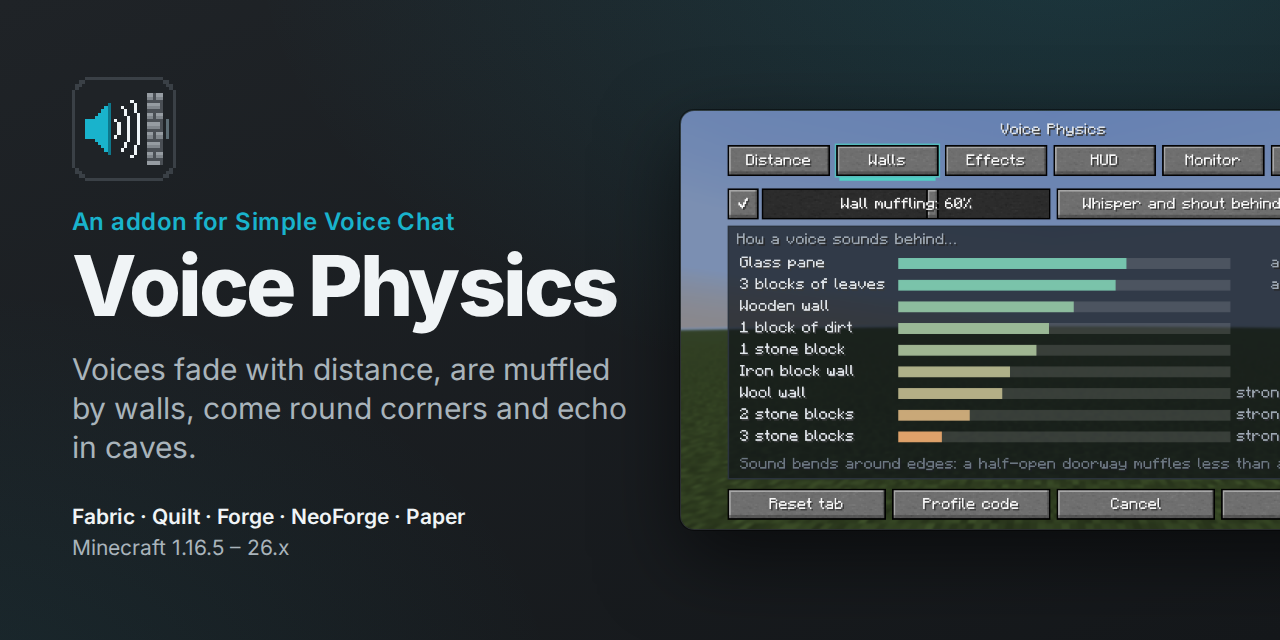
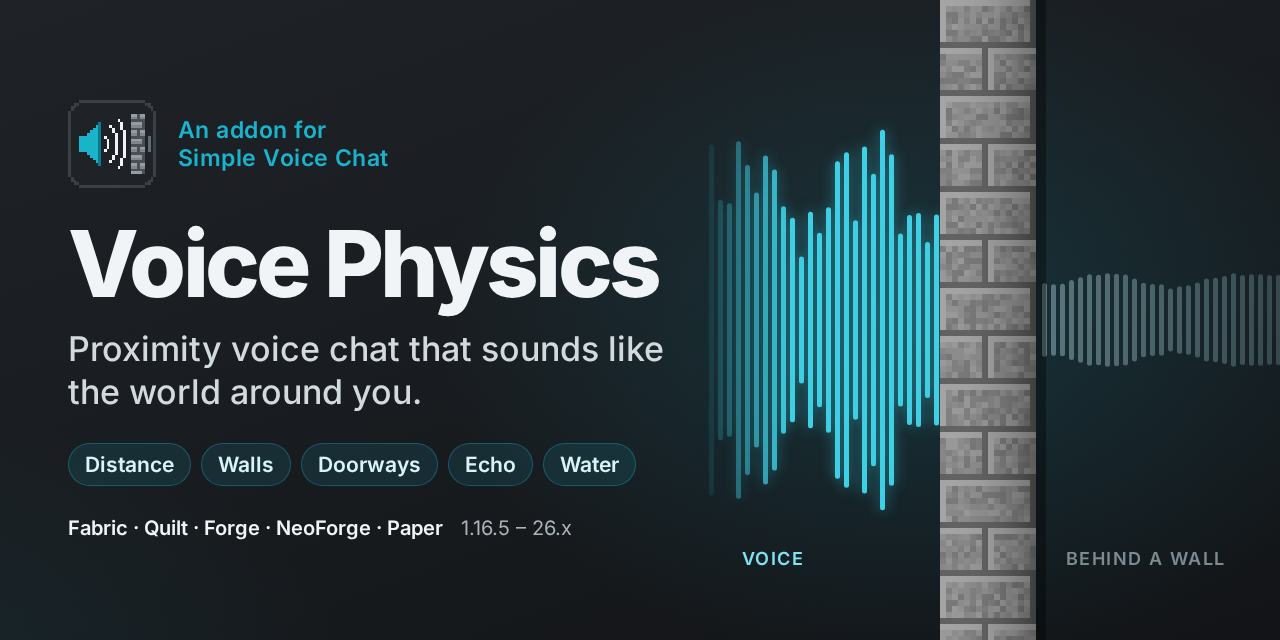
Social preview: a voice going through a wall (#68)

diff --git a/docs/gallery/social.html b/docs/gallery/social.html
@@ -1,0 +1,117 @@
+<!doctype html>
+<html lang="en">
+<head>
+<meta charset="utf-8">
+<title>Voice Physics social preview</title>
+<style>
+  /* The 1280x640 social preview of the GitHub repository: the name on the left, a voice going through a
+     wall on the right, loud and sharp before it, quiet and dull behind it. Rendered by curseforge.js. */
+  @font-face {
+    font-family: "Inter";
+    src: url("fonts/Inter-latin.woff2") format("woff2");
+    font-weight: 100 900;
+  }
+  :root {
+    --bg: #1f2327;
+    --bg-deep: #121417;
+    --cyan: #19b3cc;
+    --text: #f0f4f6;
+    --dim: #a9b4bb;
+  }
+  * { box-sizing: border-box; margin: 0; }
+  html, body { width: 1280px; height: 640px; overflow: hidden; }
+  body {
+    font-family: "Inter", sans-serif;
+    color: var(--text);
+    background:
+      radial-gradient(700px 500px at 72% 50%, rgba(25, 179, 204, 0.17), transparent 70%),
+      radial-gradient(600px 420px at -5% 110%, rgba(25, 179, 204, 0.08), transparent 70%),
+      linear-gradient(160deg, var(--bg) 0%, var(--bg-deep) 100%);
+    -webkit-font-smoothing: antialiased;
+  }
+  canvas { position: absolute; left: 0; top: 0; }
+  .left { position: absolute; left: 68px; top: 0; bottom: 0; width: 600px; display: flex; flex-direction: column; justify-content: center; }
+  .head { display: flex; align-items: center; gap: 22px; }
+  .head img { width: 88px; height: 88px; image-rendering: pixelated; }
+  .for { font-size: 23px; font-weight: 600; color: var(--cyan); letter-spacing: 0.02em; }
+  h1 { font-size: 92px; font-weight: 800; letter-spacing: -0.04em; line-height: 1; margin-top: 30px; }
+  .line { font-size: 34px; font-weight: 500; color: #d3dade; line-height: 1.25; margin-top: 18px; }
+  .chips { display: flex; flex-wrap: wrap; gap: 10px; margin-top: 30px; }
+  .chip {
+    font-size: 21px; font-weight: 600; padding: 8px 16px; border-radius: 999px;
+    background: rgba(25, 179, 204, 0.12); border: 1px solid rgba(25, 179, 204, 0.35); color: #d9f4f8;
+  }
+  .loaders { margin-top: 30px; font-size: 20px; color: var(--dim); }
+  .loaders b { color: var(--text); font-weight: 600; }
+  .tag { position: absolute; font-size: 18px; font-weight: 600; letter-spacing: 0.08em; text-transform: uppercase; }
+</style>
+</head>
+<body>
+<canvas id="c" width="1280" height="640"></canvas>
+<div class="left">
+  <div class="head"><img src="../../icon.png" alt=""><div class="for">An addon for<br>Simple Voice Chat</div></div>
+  <h1>Voice Physics</h1>
+  <div class="line">Proximity voice chat that sounds like the world around you.</div>
+  <div class="chips"><span class="chip">Distance</span><span class="chip">Walls</span><span class="chip">Doorways</span><span class="chip">Echo</span><span class="chip">Water</span></div>
+  <div class="loaders"><b>Fabric · Quilt · Forge · NeoForge · Paper</b> &nbsp; 1.16.5 – 26.x</div>
+</div>
+<div class="tag" style="left: 742px; top: 548px; color: #7fe3f2;">voice</div>
+<div class="tag" style="left: 1066px; top: 548px; color: #7c8a91;">behind a wall</div>
+<script>
+  const ctx = document.getElementById("c").getContext("2d");
+  let seed = 7;
+  const rnd = () => (seed = (seed * 16807) % 2147483647) / 2147483647;
+
+  // The same voice on both sides: speech-like bars, loud and jagged before the wall, then quieter,
+  // smoothed (the muffling) and greyer behind it
+  const step = 9, x0 = 700, x1 = 1280, wallX = 940, wallW = 96, mid = 320;
+  const raw = [];
+  for (let x = x0, i = 0; x < x1; x += step, i++) {
+    const syllable = 0.35 + 0.65 * Math.pow(Math.abs(Math.sin(i * 0.23 + 0.6)), 0.7);
+    raw.push(syllable * (0.45 + 0.55 * rnd()));
+  }
+  const smooth = raw.map((_, i) => {
+    let s = 0, n = 0;
+    for (let k = -3; k <= 3; k++) if (raw[i + k] !== undefined) { s += raw[i + k]; n++; }
+    return s / n;
+  });
+  raw.forEach((v, i) => {
+    const x = x0 + i * step;
+    if (x + 5 > wallX && x < wallX + wallW) return;
+    const before = x < wallX;
+    const fadeIn = Math.min(1, (x - x0) / 90);
+    const h = before ? v * 210 : smooth[i] * 72;
+    ctx.globalAlpha = before ? fadeIn : 0.95 - 0.5 * (x - wallX - wallW) / (x1 - wallX - wallW);
+    ctx.fillStyle = before ? "#3fd0e6" : "#5f7a82";
+    if (before) { ctx.shadowColor = "rgba(63, 208, 230, 0.55)"; ctx.shadowBlur = 14; } else ctx.shadowBlur = 0;
+    ctx.beginPath();
+    ctx.roundRect(x, mid - h, 5, h * 2, 2.5);
+    ctx.fill();
+  });
+  ctx.globalAlpha = 1;
+  ctx.shadowBlur = 0;
+
+  // A stone brick wall from top to bottom, 6 px a texel like a Minecraft block
+  const t = 6, cols = wallW / t, palette = ["#8a8a8a", "#7f7f7f", "#777777", "#929292", "#848484", "#6f6f6f"];
+  for (let r = 0; r < 640 / t + 1; r++) {
+    for (let c = 0; c < cols; c++) {
+      const row = r % 16, col = c % 16;
+      const offset = (Math.floor(r / 8) % 2) * 8;
+      const mortar = row === 7 || row === 15 || (col + offset) % 16 === 15;
+      let color = palette[Math.floor(rnd() * palette.length)];
+      if (mortar) color = "#565656";
+      else if (row === 0 || row === 8 || (col + offset) % 16 === 0) color = "#9e9e9e";
+      ctx.fillStyle = color;
+      ctx.fillRect(wallX + c * t, r * t, t, t);
+    }
+  }
+  const shade = ctx.createLinearGradient(wallX, 0, wallX + wallW, 0);
+  shade.addColorStop(0, "rgba(255,255,255,0.06)");
+  shade.addColorStop(1, "rgba(0,0,0,0.28)");
+  ctx.fillStyle = shade;
+  ctx.fillRect(wallX, 0, wallW, 640);
+  ctx.fillStyle = "rgba(0,0,0,0.35)";
+  ctx.fillRect(wallX + wallW, 0, 10, 640);
+</script>
+</body>
+</html>

diff --git a/docs/gallery/page.html b/docs/gallery/page.html
@@ -4,8 +4,7 @@
 <meta charset="utf-8">
 <title>Voice Physics gallery card</title>
 <style>
-  /* One 1920x1080 picture: the cover (?cover) or a card (?title=&text=&shot=). Rendered by make.js.
-     ?social is the 1280x640 social preview of the GitHub repository, rendered by curseforge.js. */
+  /* One 1920x1080 picture: the cover (?cover) or a card (?title=&text=&shot=). Rendered by make.js. */
   @font-face {
     font-family: "Inter";
     src: url("fonts/Inter-latin.woff2") format("woff2");
@@ -66,37 +65,13 @@
   /* The whole screenshot stays inside the picture */
   .cover .shot { position: absolute; left: 870px; top: 272px; width: 960px; height: 540px; }
 
-  /* Social preview: big name and line on the left, the screenshot running off the right edge */
-  html.social, html.social body { width: 1280px; height: 640px; }
-  .social-card { position: absolute; inset: 0; overflow: hidden; }
-  .social-card .left { position: absolute; left: 72px; top: 0; bottom: 0; width: 560px; display: flex; flex-direction: column; justify-content: center; }
-  .social-card img.icon { width: 104px; height: 104px; image-rendering: pixelated; }
-  .social-card .for { margin-top: 26px; font-size: 24px; font-weight: 600; color: var(--cyan); letter-spacing: 0.02em; }
-  .social-card h1 { font-size: 84px; font-weight: 800; letter-spacing: -0.035em; line-height: 1; margin-top: 8px; }
-  .social-card .line { font-size: 30px; color: var(--dim); line-height: 1.3; margin-top: 22px; }
-  .social-card .loaders { margin-top: 34px; font-size: 21px; color: var(--dim); line-height: 1.5; }
-  .social-card .loaders b { color: var(--text); font-weight: 600; }
-  .social-card .shot { position: absolute; left: 680px; top: 110px; width: 747px; height: 420px; }
 </style>
 </head>
 <body>
 <script>
   const q = new URLSearchParams(location.search);
   const esc = s => s.replace(/[&<>"]/g, c => ({ "&": "&amp;", "<": "&lt;", ">": "&gt;", '"': "&quot;" }[c]));
-  if (q.has("social")) {
-    document.documentElement.className = "social";
-    document.body.innerHTML = `
-      <div class="social-card">
-        <div class="left">
-          <img class="icon" src="../../icon.png" alt="">
-          <div class="for">${esc(q.get("for") || "")}</div>
-          <h1>${esc(q.get("title") || "")}</h1>
-          <div class="line">${esc(q.get("text") || "")}</div>
-          <div class="loaders">${q.get("loaders") || ""}</div>
-        </div>
-        <img class="shot" src="${esc(q.get("shot"))}" alt="">
-      </div>`;
-  } else if (q.has("cover")) {
+  if (q.has("cover")) {
     const chips = q.getAll("chip").map(c => `<span class="chip">${esc(c)}</span>`).join("");
     document.body.innerHTML = `
       <div class="cover">

diff --git a/docs/gallery/curseforge.js b/docs/gallery/curseforge.js
@@ -1,7 +1,8 @@
 // Renders the pictures of the CurseForge descriptions of the mod and the plugin
 // (docs/images/curseforge/*.png): section headings and facts strips from banner.html, and 840 px
 // copies of the cover and screenshots. CurseForge refuses pictures 850 px wide or wider.
-// Also renders the plugin's cover and the GitHub social preview (docs/images/social-preview.png).
+// Also renders the plugin's cover and the GitHub social preview (social.html, docs/images/social-preview.png),
+// set by hand in the repository's Settings → General.
 // Run from the repo root: NODE_PATH=$(npm root -g) node docs/gallery/curseforge.js
 const { chromium } = require("playwright");
 const path = require("path");
@@ -39,14 +40,6 @@ const pluginCover = {
   shot: "docs/images/ui-server.png",
   loaders: "<b>Paper · Purpur · Folia · Spigot</b> &nbsp; Minecraft 1.16.5 – 26.3 &nbsp; Players need nothing",
 };
-// The social preview of the GitHub repository, 1280x640, set by hand in Settings → General
-const social = {
-  for: "An addon for Simple Voice Chat",
-  title: "Voice Physics",
-  text: "Voices fade with distance, are muffled by walls, come round corners and echo in caves.",
-  shot: "docs/images/ui-walls.png",
-  loaders: "<b>Fabric · Quilt · Forge · NeoForge · Paper</b><br>Minecraft 1.16.5 – 26.x",
-};
 const copies = {
   cover: "docs/images/gallery/cover.png",
   "plugin-cover": "docs/images/gallery/cover-plugin.png",
@@ -66,8 +59,7 @@ const copies = {
   await big.evaluate(async () => { await document.fonts.ready; await Promise.all([...document.images].map(i => i.decode())); });
   await big.screenshot({ path: path.join(root, "docs/images/gallery/cover-plugin.png") });
   const small = await browser.newPage({ viewport: { width: 1280, height: 640 } });
-  await small.goto(pathToFileURL(path.join(__dirname, "page.html")).href + "?" + new URLSearchParams({ social: "",
-    for: social.for, title: social.title, text: social.text, shot: "../../" + social.shot, loaders: social.loaders }));
+  await small.goto(pathToFileURL(path.join(__dirname, "social.html")).href);
   await small.evaluate(async () => { await document.fonts.ready; await Promise.all([...document.images].map(i => i.decode())); });
   await small.screenshot({ path: path.join(root, "docs/images/social-preview.png") });
   const tab = await browser.newPage({ viewport: { width: 840, height: 600 } });
